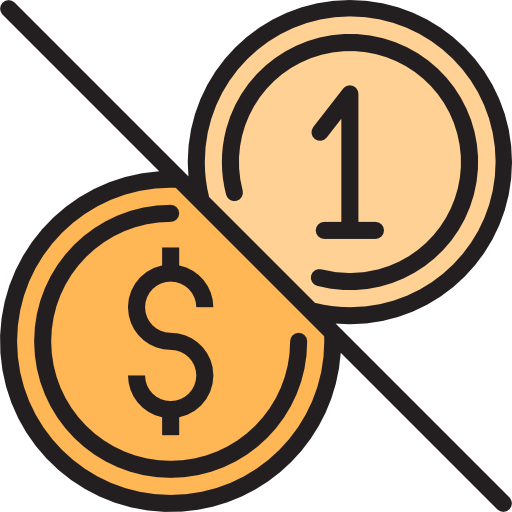
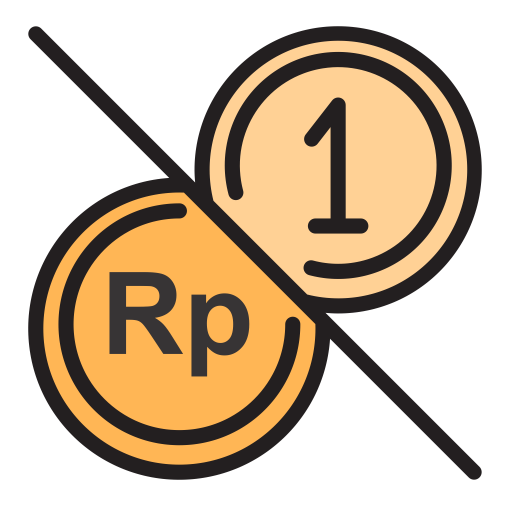
dollar to idr

diff --git a/resources/views/layouts/_sidebar.blade.php b/resources/views/layouts/_sidebar.blade.php
@@ -372,11 +372,11 @@
                         <i class="fa arrow"></i>
                     </a>
                     <ul class="sidebar-nav">
-                        <li class="{{Request::is('notifikasiotorisasi/otorisasi/*') ? 'open' : ''}}">
-                            <a href="{{route('otorisasi')}}">Otorisasi</a>
-                        </li>
                         <li class="{{Request::is('notifikasiotorisasi/notifikasi/*') ? 'open' : ''}}">
                             <a href="{{route('notifikasi')}}">Notifikasi</a>
+                        </li>
+                        <li class="{{Request::is('notifikasiotorisasi/otorisasi/*') ? 'open' : ''}}">
+                            <a href="{{route('otorisasi')}}">Otorisasi</a>
                         </li>
                     </ul>
                 </li>

diff --git a/routes/web.php b/routes/web.php
@@ -256,7 +256,7 @@ Route::group(['middleware' => 'auth'], function () {
     // !===================================================== END PENGATURAN =====================================================!
 
     // !================================================== OTORISASI NOTIFIKASI ==============================================!
-    Route::get('/notifikasiotorisasi/otoritasi/index', 'OtorisasiController@otorisasi')->name('otorisasi');
+    Route::get('/notifikasiotorisasi/otorisasi/index', 'OtorisasiController@otorisasi')->name('otorisasi');
     Route::get('/notifikasiotorisasi/notifikasi/index', 'NotifikasiController@notifikasi')->name('notifikasi');
     // !================================================ END OTORISASI NOTIFIKASI ============================================!
 });

diff --git a/resources/views/notifikasiotorisasi/otorisasi/index.blade.php b/resources/views/notifikasiotorisasi/otorisasi/index.blade.php
@@ -34,7 +34,7 @@
 			<div class="col-md-4 col-sm-6 col-12">
 				<a href="#">
 					<div class="card text-center p-4 card-custom text-info">
-						<img src="{{asset('assets/img/bars.png')}}" height="128px" width="128px">
+						<img src="{{asset('assets/img/rupiah.png')}}" height="128px" width="128px">
 						<h6>Otorisasi Perubahan Harga Jual</h6>
 					</div>
 				</a>
